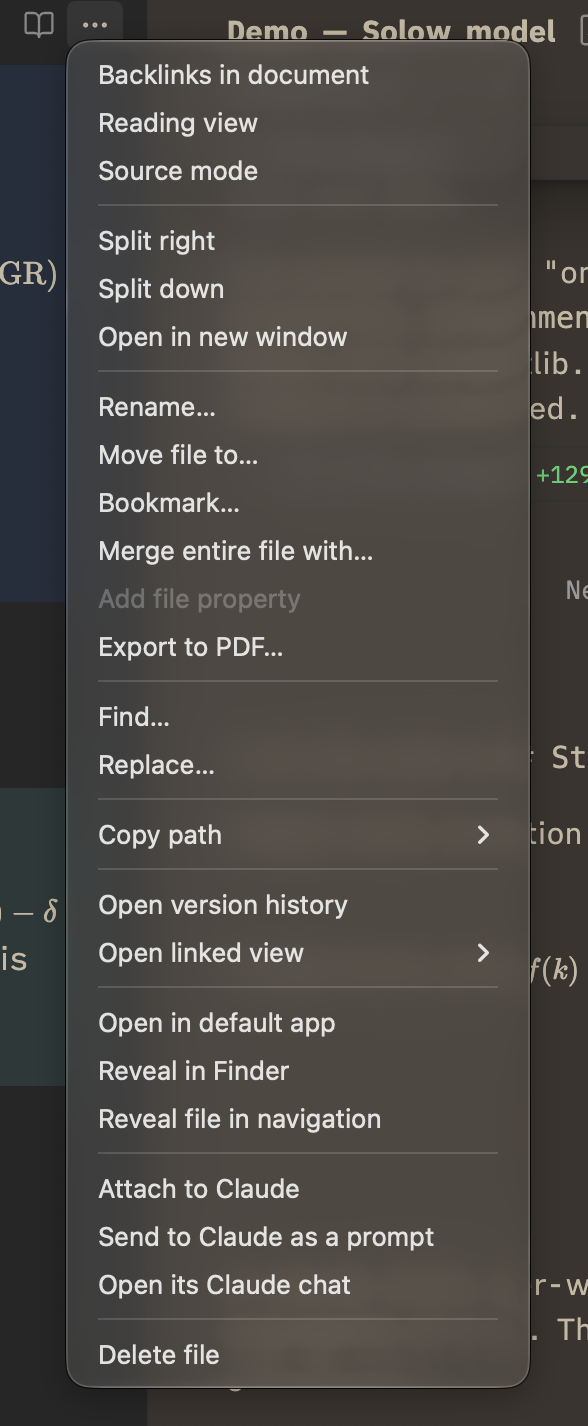
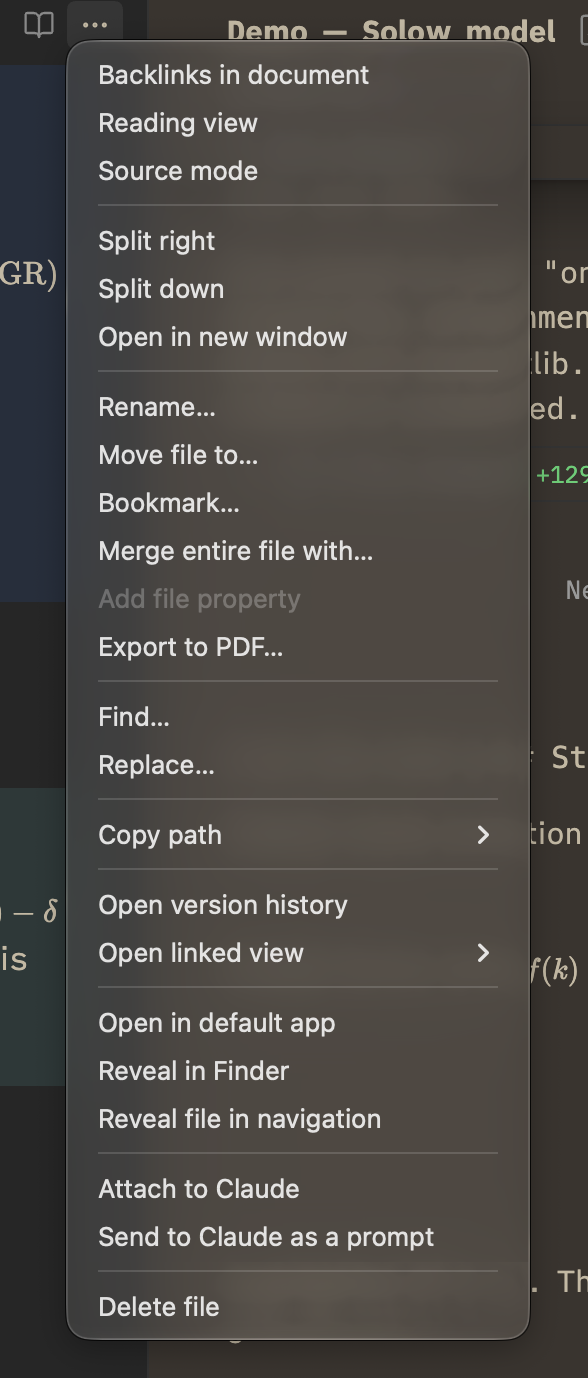
Drop "Open a Claude chat about this note" from the note's menu
The line above the input offers the note's chats, and with: in the history finds any note's; the
menu item repeated the first without its note attaching or its way back. README image cropped.

diff --git a/src/main.ts b/src/main.ts
@@ -7,7 +7,7 @@ import { patchSetMaxListenersForRenderer } from './electronCompat';
 import { deleteSessionIfAny, deleteSessions, listHistory, loadTranscript, renameSessionTitle, sessionIds, sessionStamp, type ChatRecord, type HistoryItem } from './history';
 import { messageSearchText } from './chatText';
 import { errorText, log } from './log';
-import { followDraftNotes, followNote, forgetChat, linkNote, NOTE_CHAT_ICONS, noteChatEntries, unlinkNote, type NoteChatEntry, type NoteChats } from './noteChats';
+import { followDraftNotes, followNote, forgetChat, linkNote, noteChatEntries, unlinkNote, type NoteChatEntry, type NoteChats } from './noteChats';
 import { hiddenPaths } from './pathFilter';
 import { saveMathSource } from './mathSource';
 import { RemoteControlServer, type RemoteState } from './remoteControl';
@@ -303,7 +303,6 @@ export default class VaultClaudePlugin extends Plugin {
       this.app.workspace.on('file-menu', (menu, file) => {
         attachItem(menu, [file]);
         this.promptFromNoteItem(menu, file);
-        this.chatForNoteItem(menu, file);
       }),
     );
     this.registerNoteEvents();
@@ -822,7 +821,7 @@ export default class VaultClaudePlugin extends Plugin {
   }
 
   /**
-   * Takes chat `chatId` off note `path`'s chats, as ⌥-clicking it in a note's list of chats does: no
+   * Takes chat `chatId` off note `path`'s chats, as ⌥-clicking it in the list above the input does: no
    * longer offered for the note, nor listed under it in the history, until the chat edits the note
    * again or is sent it (see mayLink).
    */
@@ -1013,35 +1012,7 @@ export default class VaultClaudePlugin extends Plugin {
     await view?.sendText(text);
   }
 
-  /** A note's right-click menu: the chats that changed it or were sent it, or the chat a saved chat note came from. */
-  private chatForNoteItem(menu: Menu, file: TAbstractFile): void {
-    if (!(file instanceof TFile)) return;
-    const entries = this.noteChatEntries(file);
-    if (entries.length === 0) return;
-    // ⌥-click takes a chat off the note instead of opening it.
-    const pick = (entry: NoteChatEntry, event: MouseEvent | KeyboardEvent) =>
-      event.altKey ? this.removeNoteChat(file.path, entry.id, entry.title) : void this.openChatById(entry.id, entry.title);
-    menu.addItem((item) => {
-      item.setTitle(entries.length === 1 ? 'Open its Claude chat' : 'Open a Claude chat about this note').setIcon('bot');
-      if (entries.length === 1) {
-        item.onClick((event) => pick(entries[0], event));
-        return;
-      }
-      const submenu = (item as unknown as { setSubmenu(): Menu }).setSubmenu();
-      submenu.addItem((sub) => sub.setTitle('⌥-click takes a chat off this note').setIsLabel(true));
-      const open = this.openChats();
-      for (const entry of entries) {
-        submenu.addItem((sub) =>
-          sub
-            .setTitle(open.has(entry.id) ? `${entry.title} · open` : entry.title)
-            .setIcon(NOTE_CHAT_ICONS[entry.why])
-            .onClick((event) => pick(entry, event)),
-        );
-      }
-    });
-  }
-
-  /** Opens a chat by its session id in the panel, as listed when it was (its copies with it). */
+  /** Opens a chat by its session id in the panel, as listed when it was (its copies with it): a kept side chat whose panel has closed. */
   async openChatById(id: string, title: string): Promise<void> {
     const view = await this.activateView();
     const listed = this.lastListing?.find((item) => item.id === id);

diff --git a/test/copyRecords.test.ts b/test/copyRecords.test.ts
@@ -31,7 +31,7 @@ test("a deleted copy leaves its original's copies, in the lists the history's ro
   assert.deepEqual([original.copies?.length, row.copies?.length], [0, 0]);
 });
 
-test("a chat opened from a note's menu is opened as listed, with its copies", async () => {
+test('a chat opened by its id (a kept side chat whose panel closed) is opened as listed, with its copies', async () => {
   const { p, original } = setup();
   const opened: HistoryItem[] = [];
   (p as unknown as { activateView(): Promise<unknown> }).activateView = async () => ({ openChat: async (item: HistoryItem) => void opened.push(item) });

diff --git a/README.md b/README.md
@@ -53,9 +53,9 @@ Open the chat from the robot icon in the left ribbon.
 
   <img src="docs/edit-selection.png" width="560" alt="The Edit selection with Claude dialog after “check the grammar”: the proposed change as a word diff, with Run again, Accept and Cancel">
 
-- **A file's menu** (right-click in the file explorer, or a note's ⋯ menu): Attach to Claude, for notes, files and folders; for a note, also Send to Claude as a prompt, and Open its Claude chat when it has one.
+- **A file's menu** (right-click in the file explorer, or a note's ⋯ menu): Attach to Claude, for notes, files and folders; for a note, also Send to Claude as a prompt.
 
-  <img src="docs/note-menu.png" width="240" alt="A note’s file menu, ending with Attach to Claude, Send to Claude as a prompt and Open its Claude chat">
+  <img src="docs/note-menu.png" width="240" alt="A note’s file menu, ending with Attach to Claude and Send to Claude as a prompt">
 
 - Ask Claude about selection, Edit selection with Claude and Send this note to Claude as a prompt are also commands.
 
@@ -85,7 +85,7 @@ Open the chat from the robot icon in the left ribbon.
   <img src="docs/background-tasks.png" width="480" alt="The input after a reply that left two background agents running: “Stop 2 tasks” beside Send">
 
 - **Notes ↔ chats**
-  - With a note open, **a line above the input** lists the chats that changed it or were sent it. The note's right-click menu has them too. ⌥-click a chat in either to take it off the note.
+  - With a note open, **a line above the input** lists the chats that changed it or were sent it; ⌥-click one to take it off the note. `with:` in the history finds any note's chats.
 
     <img src="docs/note-line.png" width="480" alt="Above the input of a new chat: the line “1 chat about this note”, and the chip offering to attach the open note, “+ Demo — Solow model”">
 
